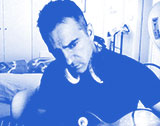
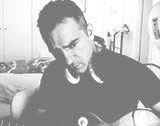
rte

diff --git a/css/style.css b/css/style.css
@@ -1,5 +1,5 @@
 left/*! normalize.css v3.0.1 | MIT License | git.io/normalize */html{font-family:sans-serif;-ms-text-size-adjust:100%;-webkit-text-size-adjust:100%}body{margin:0}article,aside,details,figcaption,figure,footer,header,hgroup,main,nav,section,summary{display:block}a{font-weight:600;}audio,canvas,progress,video{display:inline-block;vertical-align:baseline}audio:not([controls]){display:none;height:0}[hidden],template{display:none}a{background:transparent}a:active,a:hover{outline:0}abbr[title]{border-bottom:1px dotted}b,strong{font-weight:bold}dfn{font-style:italic}h1{font-size:2em;margin:0.67em 0}mark{background:#ff0;color:#000}small{font-size:80%}sub,sup{font-size:75%;line-height:0;position:relative;vertical-align:baseline}sup{top:-0.5em}sub{bottom:-0.25em}img{border:0}svg:not(:root){overflow:hidden}figure{margin:1em 40px}hr{-moz-box-sizing:content-box;box-sizing:content-box;height:0}pre{overflow:auto}code,kbd,pre,samp{font-family:monospace, monospace;font-size:1em}button,input,optgroup,select,textarea{color:inherit;font:inherit;margin:0}button{overflow:visible}button,select{text-transform:none}button,html input[type="button"],input[type="reset"],input[type="submit"]{-webkit-appearance:button;cursor:pointer}button[disabled],html input[disabled]{cursor:default}button::-moz-focus-inner,input::-moz-focus-inner{border:0;padding:0}input{line-height:normal}input[type="checkbox"],input[type="radio"]{box-sizing:border-box;padding:0}input[type="number"]::-webkit-inner-spin-button,input[type="number"]::-webkit-outer-spin-button{height:auto}input[type="search"]{-webkit-appearance:textfield;-moz-box-sizing:content-box;-webkit-box-sizing:content-box;box-sizing:content-box}input[type="search"]::-webkit-search-cancel-button,input[type="search"]::-webkit-search-decoration{-webkit-appearance:none}fieldset{border:1px solid #c0c0c0;margin:0 2px;padding:0.35em 0.625em 0.75em}legend{border:0;padding:0}textarea{overflow:auto}optgroup{font-weight:bold}table{border-collapse:collapse;border-spacing:0}td,th{padding:0}@font-face{font-family:'lekton04thin';src:url("lekton005_l.eot");src:url("lekton005_l-.eot#iefix") format("embedded-opentype"),url("lekton005_l.woff") format("woff"),url("lekton005_l.ttf") format("truetype"),url("lekton005_l.svg#lekton04thin") format("svg");font-weight:normal;font-style:normal}p{-ms-word-break:break-all;-ms-word-wrap:break-all;word-break:break-word;word-break:break-word;-webkit-hyphens:auto;-moz-hyphens:auto;hyphens:auto;-webkit-hyphenate-before:2;-webkit-hyphenate-after:3;hyphenate-lines:3;-webkit-font-feature-settings:"liga", "dlig";-moz-font-feature-settings:"liga=1, dlig=1";-ms-font-feature-settings:"liga", "dlig";-o-font-feature-settings:"liga", "dlig";font-feature-settings:"liga", "dlig"}.browsehappy{margin:0.2em 0;background:#ccc;color:#000;padding:0.2em 0}.hidden{display:none !important;visibility:hidden}.visuallyhidden{border:0;clip:rect(0 0 0 0);height:1px;margin:-1px;overflow:hidden;padding:0;position:absolute;width:1px}.visuallyhidden.focusable:active,.visuallyhidden.focusable:focus{clip:auto;height:auto;margin:0;overflow:visible;position:static;width:auto}.invisible{visibility:hidden}.clearfix:before,.clearfix:after{content:" ";display:table}.clearfix:after{clear:both}body{font-family:"lekton04thin","Helvetica Neue",Helvetica,Arial,sans-serif;font-size:100%;line-height:1.5;color:#fff;background-color:#000;-webkit-font-smoothing:antialiased}::-moz-selection{background:#b3d4fc;text-shadow:none}::selection{background:#b3d4fc;text-shadow:none}hr{display:block;height:1px;border:0;border-top:1px solid #ccc;margin:1em 0;padding:0}audio,canvas,img,svg,video{vertical-align:middle}fieldset{border:0;margin:0;padding:0}textarea{resize:vertical}.wrap{width:96%;margin:0 auto}a,a:visited{color:#fff;text-decoration:none}a:hover,a:focus,a:visited:hover,a:visited:focus{color:#fff}a:link,a:visited:link{-webkit-tap-highlight-color:rgba(0,0,0,0.3)}h1,.h1,h2,.h2,h3,.h3,h4,.h4,h5,.h5{font-weight:100}h1 a,.h1 a,h2 a,.h2 a,h3 a,.h3 a,h4 a,.h4 a,h5 a,.h5 a{text-decoration:none}h1,.h1{font-size:2.5em;line-height:1.333em;padding:20px 0 14px;margin:16px 0 0;font-weight:600}h2,.h2{font-size:1.75em;line-height:1.4em;margin-bottom:0.375em}h3,.h3{font-size:16px;font-weight:600;margin:2px 0 0 0}h4,.h4{font-size:1.1em;font-weight:700}h5,.h5{font-size:0.846em;line-height:2.09em;text-transform:uppercase;letter-spacing:2px}ul{list-style:none;padding:0;margin:0}p{margin:0}#hide-img,#d-hide-img,.hide-img{width:0;height:0;display:none;overflow:hidden}#eloo{display:none}#body-bg{display:none;width:100%;height:100%;z-index:-1000;position:fixed;background:url("../img/large.jpg") center center fixed;-webkit-background-size:cover;-moz-background-size:cover;-o-background-size:cover;background-size:cover}#m-body-bg{display:block;margin-top: -20px;height:100%;width:100%;z-index:-1000;position:fixed;background:url("../img/small.jpg") center right}#bg-cover{width:100%;height:100%;position:fixed;opacity:0.8;background-color: rgba(0, 118, 248, 0.5);}#wrapper,#d-wrapper{display:none}#container{display:none}#loading,#d-loading{width:100%;height:100%;z-index:100;position:fixed;
-	background-color: rgb(0, 118, 248);
+	background-color: #1b397a;
 }#loading{font-family:"Georgia",Cambria,Times New Roman,Times,serif;font-size:3em;color:rgba(158,21,32,0.64)}#loading #loading-content{top:50%;width:172px;height:140px;position:relative;margin:-70px auto}#loading #loading-content span{font-family:"lekton04thin","Helvetica Neue",Helvetica,Arial,sans-serif;font-size:.5em;color:#fff;text-align:center;display:block;}#loading #loading-content #nel,#loading #loading-content #time-s,#loading #loading-content #elc,#loading #loading-content #eloo{float:right;line-height:0.9}#loading #loading-content #time-s{right:86px;position:absolute}#loading #loading-content #nel{right:106px;position:absolute}#loading #loading-content #el{list-style-type:decimal-leading-zero}#loading #loading-content #loading-bar{height:2px;background-color:rgba(255,255,255,0.49);margin:100px 0 0 0}#loading #loading-content #loading-bar #loading-bar-s{height:100%;background-color:rgba(255,255,255,0.94);width:0%}#loading #loading-content #loading-bar #loading-bar-d{height:100%;width:0%}#m-container{display:block;position:absolute;width:100%;height:100%}#m-container #m-title{margin:50px 20px 0;font-weight:600;font-size:1.2em}#m-container #m-title #m-cross{width:5px;height:8px;float:left;margin-right:6px;background:url(../img/cross.png) 0 0 no-repeat;-webkit-background-size:100% 100%;-moz-background-size:100% 100%;-o-background-size:100% 100%;background-size:100% 100%}#m-container .m-sections{margin:0 20px}#m-container .m-sections ol{margin:0;font-size:15px;list-style-type:decimal-leading-zero}#m-container .m-sections .firstp{margin-bottom:20px}#m-container .m-sections p{font-size:15px}#m-footer{margin:70px 20px}#m-footer ul{height:20px;font-size:12px;line-height:22px}#m-footer ul a,#m-footer ul li{float:left}#m-footer ul div{width:55px;margin:0 auto;padding-bottom:16px}#m-footer ul #m-footer-twitter{height:15px;width:20px;margin-right:10px;background:url(../img/twitter.png) 0 0 no-repeat;-webkit-background-size:100% 100%;-moz-background-size:100% 100%;-o-background-size:100% 100%;background-size:100% 100%}#m-footer ul #m-footer-sc{height:15px;width:20px;background:url(../img/sc.png) 0 0 no-repeat;-webkit-background-size:100% 100%;-moz-background-size:100% 100%;-o-background-size:100% 100%;background-size:100% 100%}#m-footer ul #nlev{float:none;text-align:center}#m-footer ul #nlev a{float:none}#d-container{position:absolute;width:100%;height:20%}#d-container #d-title{margin:50px 20px 0;font-weight:600;font-size:1.2em}#d-container #d-title #d-cross{width:5px;height:8px;float:left;margin-right:6px;background:url(../img/cross.png) 0 0 no-repeat;-webkit-background-size:100% 100%;-moz-background-size:100% 100%;-o-background-size:100% 100%;background-size:100% 100%}#d-container .container{top:30%;max-width:100%;width:570px;height:100px;position:relative;margin:-20px 0 0}#d-container .container h1{margin-top:0}#d-container .container form .control-group{text-align:justify}#d-container .container form #restricted{margin-top:50px}#d-container .container form #restricted .tr-dl-link{float:left;overflow:hidden;border:solid 2px;width:46% !important;height:40px !important}#d-container .container form #restricted .tr-dl-link div{position:absolute;height:20px;width:156px;text-align:center;padding:10px 0}#d-container .container form #restricted .tr-dl-link iframe{left:70px;opacity:0;z-index:1;position:relative;transform:scale(3, 2);-ms-transform:scale(3, 2);-webkit-transform:scale(3, 2)}#d-container .container form #restricted .fb-dl-link{float:right;overflow:hidden;border:solid 2px;width:46% !important;height:40px !important}#d-container .container form #restricted .fb-dl-link div{position:absolute;height:20px;width:156px;text-align:center;padding:10px 0}#d-container .container form #restricted .fb-dl-link .fb_iframe_widget{left:74px;opacity:0;z-index:1;position:relative;transform:scale(6, 3);-ms-transform:scale(6, 3);-webkit-transform:scale(6, 3)}#d-container .container .m-container{display:none}.m-new-sc-player{height:80px;margin-top:56px;font-size:12px;position:relative;-webkit-transition:all 0.6s ease;-moz-transition:all 0.6s ease;-ms-transition:all 0.6s ease;-o-transition:all 0.6s ease;transition:all 0.6s ease}.m-new-sc-player .sc-player{margin:0 20px;border:solid 1px}.m-new-sc-player .sc-player .sc-info-container{padding:2px 10px;border-bottom:solid 1px}.m-new-sc-player .sc-player .sc-info-container .sc-info{float:left}.m-new-sc-player .sc-player .sc-info-container .sc-time-indicators{float:right;margin-top:3px}.m-new-sc-player .sc-player .sc-controls-container .sc-controls{float:left;width:54px;height:54px;border-right:solid 1px;cursor:pointer}.m-new-sc-player .sc-player .sc-controls-container .sc-controls .sc-play{height:54px;width:54px;display:block;background:url(../img/play.png) 0 0 no-repeat;-webkit-background-size:100% 100%;-moz-background-size:100% 100%;-o-background-size:100% 100%;background-size:100% 100%}.m-new-sc-player .sc-player .sc-controls-container .sc-controls .sc-pause{display:none;height:54px;width:54px;background:url(../img/pause.png) 0 0 no-repeat;-webkit-background-size:100% 100%;-moz-background-size:100% 100%;-o-background-size:100% 100%;background-size:100% 100%}.m-new-sc-player .sc-player .sc-controls-container .sc-scrubber{float:left}.m-new-sc-player .sc-player .sc-controls-container .sc-scrubber .sc-time-span{height:54px;width:170px;position:relative;-webkit-transition:all 0.6s ease;-moz-transition:all 0.6s ease;-ms-transition:all 0.6s ease;-o-transition:all 0.6s ease;transition:all 0.6s ease}.m-new-sc-player .sc-player .sc-controls-container .sc-scrubber .sc-time-span div{height:54px;position:absolute;background-color:#fff;-webkit-transition:all 0.6s ease;-moz-transition:all 0.6s ease;-ms-transition:all 0.6s ease;-o-transition:all 0.6s ease;transition:all 0.6s ease}.m-new-sc-player .sc-player .sc-controls-container .sc-scrubber .sc-time-span .sc-waveform-container{opacity:0;width:100%}.m-new-sc-player .sc-player .sc-controls-container .sc-scrubber .sc-time-span .sc-waveform-container img{width:100%;height:100%}.m-new-sc-player .sc-player .sc-controls-container .sc-scrubber .sc-time-span .sc-buffer{opacity:0.2}.new-sc-player{width:109px;height:54px;border:solid 1px;font-size:12px;position:absolute;left:38px;bottom:180px;-webkit-transition:all 0.6s ease;-moz-transition:all 0.6s ease;-ms-transition:all 0.6s ease;-o-transition:all 0.6s ease;transition:all 0.6s ease;overflow:hidden}.new-sc-player .sc-player .sc-info-container{display:none;padding:2px 10px;border-bottom:solid 1px;-webkit-transition:all 0.6s ease;-moz-transition:all 0.6s ease;-ms-transition:all 0.6s ease;-o-transition:all 0.6s ease;transition:all 0.6s ease}.new-sc-player .sc-player .sc-info-container .sc-info{float:left}.new-sc-player .sc-player .sc-info-container .sc-time-indicators{float:right;margin-top:3px}.new-sc-player .sc-player .sc-controls-container .sc-controls{float:left;width:54px;height:54px;border-right:none;-webkit-transition:all 0.6s ease;-moz-transition:all 0.6s ease;-ms-transition:all 0.6s ease;-o-transition:all 0.6s ease;transition:all 0.6s ease;cursor:pointer}.new-sc-player .sc-player .sc-controls-container .sc-controls .sc-play{height:54px;width:54px;display:block;background:url(../img/play.png) 0 0 no-repeat;-webkit-background-size:100% 100%;-moz-background-size:100% 100%;-o-background-size:100% 100%;background-size:100% 100%}.new-sc-player .sc-player .sc-controls-container .sc-controls .sc-pause{display:none;height:54px;width:54px;background:url(../img/pause.png) 0 0 no-repeat;-webkit-background-size:100% 100%;-moz-background-size:100% 100%;-o-background-size:100% 100%;background-size:100% 100%}.new-sc-player .sc-player .sc-controls-container .sc-scrubber{float:left;display:none;-webkit-transition:all 0.6s ease;-moz-transition:all 0.6s ease;-ms-transition:all 0.6s ease;-o-transition:all 0.6s ease;transition:all 0.6s ease}.new-sc-player .sc-player .sc-controls-container .sc-scrubber .sc-time-span{height:54px;width:120px;position:relative;-webkit-transition:all 0.6s ease;-moz-transition:all 0.6s ease;-ms-transition:all 0.6s ease;-o-transition:all 0.6s ease;transition:all 0.6s ease}.new-sc-player .sc-player .sc-controls-container .sc-scrubber .sc-time-span div{height:54px;position:absolute;background-color:#fff;-webkit-transition:all 0.6s ease;-moz-transition:all 0.6s ease;-ms-transition:all 0.6s ease;-o-transition:all 0.6s ease;transition:all 0.6s ease}.new-sc-player .sc-player .sc-controls-container .sc-scrubber .sc-time-span .sc-waveform-container{opacity:0;width:100%}.new-sc-player .sc-player .sc-controls-container .sc-scrubber .sc-time-span .sc-waveform-container img{width:100%;height:100%}.new-sc-player .sc-player .sc-controls-container .sc-scrubber .sc-time-span .sc-buffer{opacity:0.2}.new-sc-player .sc-player .sc-controls-container .sc-dl{float:left;width:54px;height:54px;border-left:none 1px;background:none 0 0 no-repeat;-webkit-background-size:100% 100%;-moz-background-size:100% 100%;-o-background-size:100% 100%;background-size:100% 100%}.sc-artwork-list,.sc-trackslist,.sc-info-toggle,.sc-volume-slider{display:none}@media only screen and (min-width: 706px){.new-sc-player{height:80px;width:230px}.new-sc-player .sc-player .sc-info-container{display:block}.new-sc-player .sc-player .sc-controls-container .sc-controls{border-right:solid 1px}.new-sc-player .sc-player .sc-controls-container .sc-scrubber{display:block}}@media only screen and (min-width: 894px){#nlev span{display:initial !important}.new-sc-player{width:340px}.new-sc-player .sc-player .sc-controls-container .sc-scrubber .sc-time-span{width:284px}}@media only screen and (min-width: 612px){.wrap{width:712px}#body-bg{display:block}#m-body-bg{display:none}#m-container{display:none}#container{display:block;position:absolute;width:100%;height:100%;overflow:hidden;min-height:660px}#container #title{margin:30px 38px;font-weight:600;font-size:1.2em}#container #title #cross{width:5px;height:8px;float:left;margin-right:6px;background:url(../img/cross.png) 0 0 no-repeat;-webkit-background-size:100% 100%;-moz-background-size:100% 100%;-o-background-size:100% 100%;background-size:100% 100%}#container #menu{margin:80px 38px;font-size:1.1em}#container #menu ul li{cursor:pointer;float:left;padding-bottom:1px;margin-bottom:20px;-webkit-touch-callout:none;-webkit-user-select:none;-khtml-user-select:none;-moz-user-select:none;-ms-user-select:none;user-select:none}#container #menu ul #tl-arrows-li{border:none;margin-left:14px;cursor:default}#container #menu ul #tl-arrows-li #tl-arrows-container{overflow:hidden}#container #menu ul #tl-arrows-li #tl-arrows-container #tl-arrows{left:-20px;position:relative}#container #menu ul #about-link{clear:both}#container #menu ul #news-link{clear:both}#container #menu ul #a-arrows-li{border:none;margin-left:14px;cursor:default}#container #menu ul #a-arrows-li #a-arrows-container{overflow:hidden}#container #menu ul #a-arrows-li #a-arrows-container #a-arrows{left:-20px;position:relative}#b-arrows-li{text-decoration:none;border:none;margin-left:14px;cursor:default}#container #menu ul #b-arrows-li #b-arrows-container{overflow:hidden}#container #menu ul #b-arrows-li #b-arrows-container #b-arrows{left:-20px;position:relative}#container .sections{top:30px;width:360px;position:absolute;padding-right:64px}#container #songs,#container #about,#container #news{right:-425px}#container #songs ol,#container #about ol,#container #news ol{margin:0;font-size:15px;list-style-type:decimal-leading-zero}#container #songs .firstp,#container #about .firstp,#container #news .firstp{margin-bottom:20px}#container #songs p,#container #about p,#container #news p{font-size:15px}#container #songs p:first-child,#container #about p:first-child,#container #news p:first-child{margin-bottom:20px}#d-container #d-title{margin:30px 38px}.close{width:40px;height:40px;float:right;cursor:pointer;overflow:hidden;border:solid 2px;margin-bottom:20px;border-radius:22px;-moz-border-radius:22px;-khtml-border-radius:22px;-webkit-border-radius:22px}.close:hover .close-bg-black,.close:focus .close-bg-black{opacity:1}.close-bg-white{z-index:1;width:40px;height:40px;position:absolute;background:url(../img/close-white.png) 0 0 no-repeat;-webkit-background-size:100% 100%;-moz-background-size:100% 100%;-o-background-size:100% 100%;background-size:100% 100%}.close-bg-black{z-index:2;width:40px;height:40px;position:absolute;background:url(../img/close-black.png) 0 0 no-repeat;-webkit-background-size:100% 100%;-moz-background-size:100% 100%;-o-background-size:100% 100%;background-size:100% 100%;opacity:0}.download-box{max-width:200px;text-align:center;border:solid 2px;padding:13px;font-weight:600;margin:60px auto;}#footer{position:absolute;bottom:20px;left:38px}#footer ul{height:20px;font-size:12px;line-height:22px}#footer ul a,#footer ul li{float:left}#footer ul #footer-twitter{height:20px;width:25px;margin-right:10px;background:url(../img/twitter.png) 0 0 no-repeat;-webkit-background-size:100% 100%;-moz-background-size:100% 100%;-o-background-size:100% 100%;background-size:100% 100%}#footer ul #footer-sc{height:20px;width:35px;margin-right:18px;background:url(../img/sc.png) 0 0 no-repeat;-webkit-background-size:100% 100%;-moz-background-size:100% 100%;-o-background-size:100% 100%;background-size:100% 100%}#footer ul #nlev span{display:none}#footer ul #nlev a{float:none}}@media only screen and (min-width: 1030px){.wrap{width:1040px}}@media print{*{background:transparent !important;color:#000 !important;box-shadow:none !important;text-shadow:none !important}a,a:visited{text-decoration:underline}a[href]:after{content:" (" attr(href) ")"}abbr[title]:after{content:" (" attr(title) ")"}a[href^="javascript:"]:after,a[href^="#"]:after{content:""}pre,blockquote{border:1px solid #999;page-break-inside:avoid}thead{display:table-header-group}tr,img{page-break-inside:avoid}img{max-width:100% !important}p,h2,h3{orphans:3;widows:3}h2,h3{page-break-after:avoid}}.info{font-size:1em;margin-left:36px;font-weight: 300;}
 .tumblr_title{margin-top:25px;letter-spacing:1px;font-size:1em;line-height:1.6em;font-weight:700;text-align:left;}.tumblr_date{display:none;padding:2px 0 2px;letter-spacing:1px;font-size:14px;font-weight:700;color:#ddd;text-align:center}.tumblr_body,.tumblr_link{font-size:1em}.tumblr_quote{margin:30px;font-size:1.2em;font-style:italic;max-width:80%}.tumblr_photo{max-width:35%;margin:0 auto;border-bottom:1px solid #b2b2b2}.tumblr_audio{background-color:inherit;color:#fff;margin:0 auto}#audio_player{color:#fff!important}#audio_player_overlay{color:#fff;background-color:#fff}.post.audio .album-art{width:100%;height:100%;border-radius:2px;overflow:hidden;border-bottom:1px solid #b2b2b2}.post.audio .album-art img{width:100%;height:100%}.post.audio .audio-embed{display:none;width:100%;height:100%}.single-post .post.audio .album-art{display:none}.post.audio .audio-embed .tumblr_audio_player{width:320px;height:320px}.single-post .post.audio .audio-embed{display:block}#entries{position:relative;max-width:500px;margin:-22px auto;text-align:left;border-bottom:1px solid #b2b2b2}#entries a{text-decoration:none;color:#737373}#entries p{text-decoration:none;font-weight:100;max-width:100%}#entries img{text-align:center;max-width:100%;opacity: .5;}#entries caption{text-align:center;max-width:60%}#entries a:hover{text-decoration:underline;}canvas{ width: 100%;height:100%;}.space{display:block; padding-top:20px;}.textwrap{float:left;
 margin-bottom: 6px;margin-right:15px;opacity:.7;}p{padding-bottom: 10px;}
